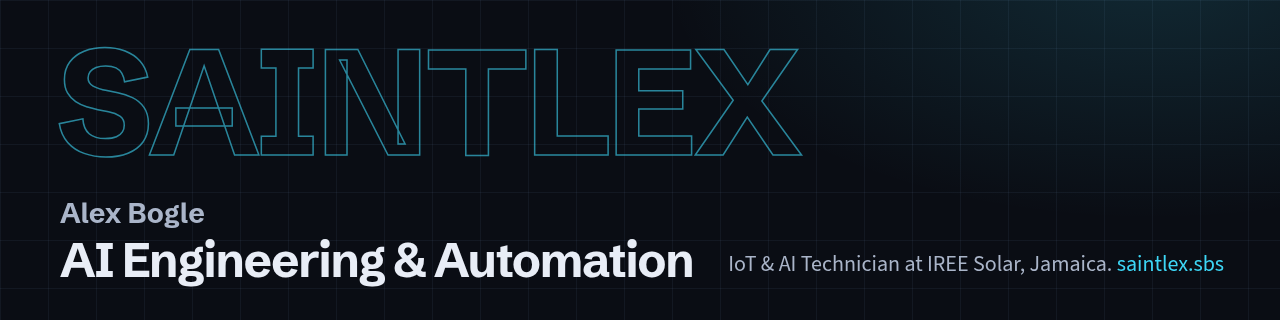
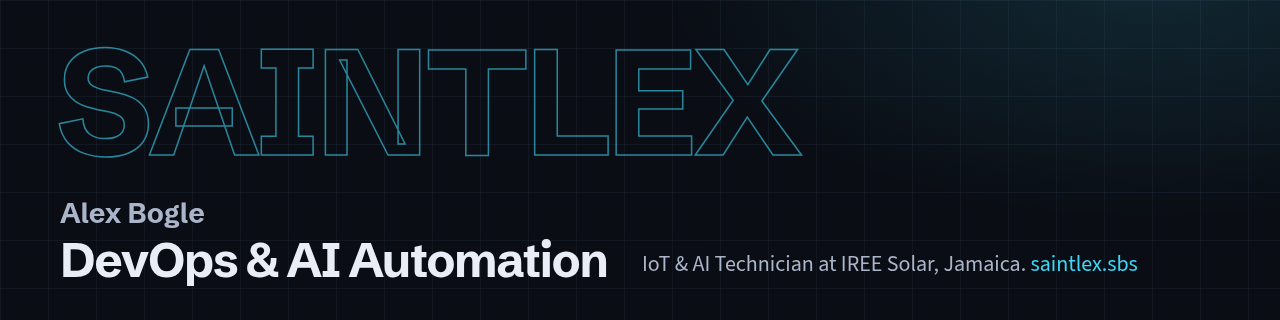
Reposition the profile as DevOps & AI Automation
- Headline DevOps & AI Automation in the H1, banner and alt text.
  The banner keeps the old fonts and grid; only the headline line changed.
- Open to: Cloud Support, DevOps or Platform, AI Automation Engineer.
- Work list leads with the server, CI, guard rails and monitoring,
  then the staff assistant and website chat.
- Learning now: Terraform, AWS, Ansible, Kubernetes, stated as study
  goals. None added to the daily stack.

Changed region(s): [[0.0312, 0.75, 0.9688, 0.9062]]

diff --git a/README.md b/README.md
@@ -1,25 +1,25 @@
-![SAINTLEX. Alex Bogle, AI Engineering and Automation. IoT and AI Technician at IREE Solar, Jamaica.](assets/banner.png)
+![SAINTLEX. Alex Bogle, DevOps and AI Automation. IoT and AI Technician at IREE Solar, Jamaica.](assets/banner.png)
 
-# Alex Bogle | AI Engineering & Automation
+# Alex Bogle | DevOps & AI Automation
 
-I build practical AI systems, agents, workflows and integrations, and I ship them tested, secured and documented.
+I keep production Linux, Docker and CI running, and I build AI-powered automation on top. I ship it tested, secured and documented.
 
-**Current role:** IoT & AI Technician at IREE Solar, Jamaica. AI Engineering & Automation is the discipline, not the job title.
+**Current role:** IoT & AI Technician at IREE Solar, Jamaica. DevOps & AI Automation is the discipline, not the job title.
 
-**Open to:** remote roles in AI automation, technical support and solutions engineering, and monitoring or site reliability. Worldwide, Americas, or contract work.
+**Open to:** remote roles as a Cloud Support Engineer, DevOps or Platform Engineer, or AI Automation Engineer. Worldwide, Americas, or contract work.
 
 ## Work at IREE Solar
 
-Each item has its status and, where I have one, a measured result. Full write-ups are on [saintlex.sbs](https://saintlex.sbs/#work).
+Infrastructure first, then the AI work that runs on it. Each item has its status and, where I have one, a measured result. Full write-ups are on [saintlex.sbs](https://saintlex.sbs/#work).
 
-- **Staff assistant.** Answers staff product questions from 118 manufacturer documents and names the source. Grok 4.7 with hybrid search (BM25 and bge-base) and a MiniLM reranker, plus prompt and output guards. On a 62-question test set it gets 62 right, against 25 for plain Grok, which made up figures in 18 answers. *Staff pilot.* [Case study](https://saintlex.sbs/case-studies/staff-assistant/)
-- **Website chat.** Answers only from approved company facts and hands anything else to a person. 37 of 37 test answers right by hand, 11 of 11 red-team attacks refused. *Waits for the new site.* [Case study](https://saintlex.sbs/case-studies/website-chat/)
 - **Server, backups and monitoring.** A cloud server with an encrypted nightly backup. The monthly restore drill brings back 6.1 GB in 92 seconds, and 99.67% of 221,364 uptime checks passed over 29 days. Two written postmortems. *In use.* [Case study](https://saintlex.sbs/case-studies/server-backups-and-recovery/)
+- **CI and GitHub.** 726 merged pull requests since August 2026, most written with coding agents and reviewed by me. 43 workflows across 19 repositories. When the included Actions minutes ran out on 20 October 2026, I moved CI to 7 self-hosted runners: about 1,340 minutes a month projected, against about 9,000 if every job ran on GitHub.
 - **Guard rails for AI coding agents.** Three guards check every shell command an agent runs: keys only go to their own service, no pushes to main or force-pushes, and no endless sleep blocks. 24 agent skills written from vendor documentation. *In use.*
 - **Monitoring alerts and customer reports.** A daily watch of equipment alerts, matched to each customer's service history, and plain-language performance reports for 15 battery sites so far. *In use.*
-- **Field service.** Water heater repairs, inverter alert call-outs, site surveys, and Powerwall warranty follow-up with Tesla. *Since September 2026.*
+- **Staff assistant.** Answers staff product questions from 118 manufacturer documents and names the source. Grok 4.7 with hybrid search (BM25 and bge-base) and a MiniLM reranker, plus prompt and output guards. On a 62-question test set it gets 62 right, against 25 for plain Grok, which made up figures in 18 answers. *Staff pilot.* [Case study](https://saintlex.sbs/case-studies/staff-assistant/)
+- **Website chat.** Answers only from approved company facts and hands anything else to a person. 37 of 37 test answers right by hand, 11 of 11 red-team attacks refused. *Waits for the new site.* [Case study](https://saintlex.sbs/case-studies/website-chat/)
 - **Field automation.** Website, ServiceM8 and Zoho workflows where a person approves every live write. Built and tested, now paused; two small read-only tools are live. *Paused.*
-- **GitHub.** 726 merged pull requests since August 2026, most written with coding agents and reviewed by me. 43 workflows across 19 repositories. When the included Actions minutes ran out on 20 October 2026, I moved CI to 7 self-hosted runners: about 1,340 minutes a month projected, against about 9,000 if every job ran on GitHub.
+- **Field service.** Water heater repairs, inverter alert call-outs, site surveys, and Powerwall warranty follow-up with Tesla. *Since September 2026.*
 
 These repositories are private.
 
@@ -62,12 +62,12 @@ In review:
 ## Stack
 
 - **Daily:** Linux, Bash, Git, Docker, GitHub Actions with self-hosted runners, Python, Node.js, TypeScript, Rust.
-- **AI and data:** Grok, Open WebUI, hybrid search (BM25 and embeddings) with a reranker, evaluation sets with baselines, prompt and output guards, AI coding agents (Claude Code, Codex, Grok).
-- **Automation and integration:** n8n, REST APIs, ServiceM8, Zoho, Google Workspace, Cloudflare.
 - **Operations:** restic backups with restore drills, Uptime Kuma, Healthchecks.io, ntfy alerts, Trivy image scans.
+- **Automation and integration:** n8n, REST APIs, ServiceM8, Zoho, Google Workspace, Cloudflare.
+- **AI and data:** Grok, Open WebUI, hybrid search (BM25 and embeddings) with a reranker, evaluation sets with baselines, prompt and output guards, AI coding agents (Claude Code, Codex, Grok).
 - **Energy systems:** Tesla Powerhub and Powerwall, Fronius, eGauge, WeCo, solar and battery monitoring, outage and reserve analysis.
 - **Foundation:** device and firmware troubleshooting, networking diagnostics.
-- **Learning:** AWS fundamentals, MQTT and IoT integration (lab only).
+- **Learning now:** Terraform and AWS Cloud Practitioner (December 2026), then Ansible and AWS Solutions Architect Associate (first half of 2027), then Kubernetes basics (Q3 2027). These are study goals, not experience yet.
 
 ## Links
 
